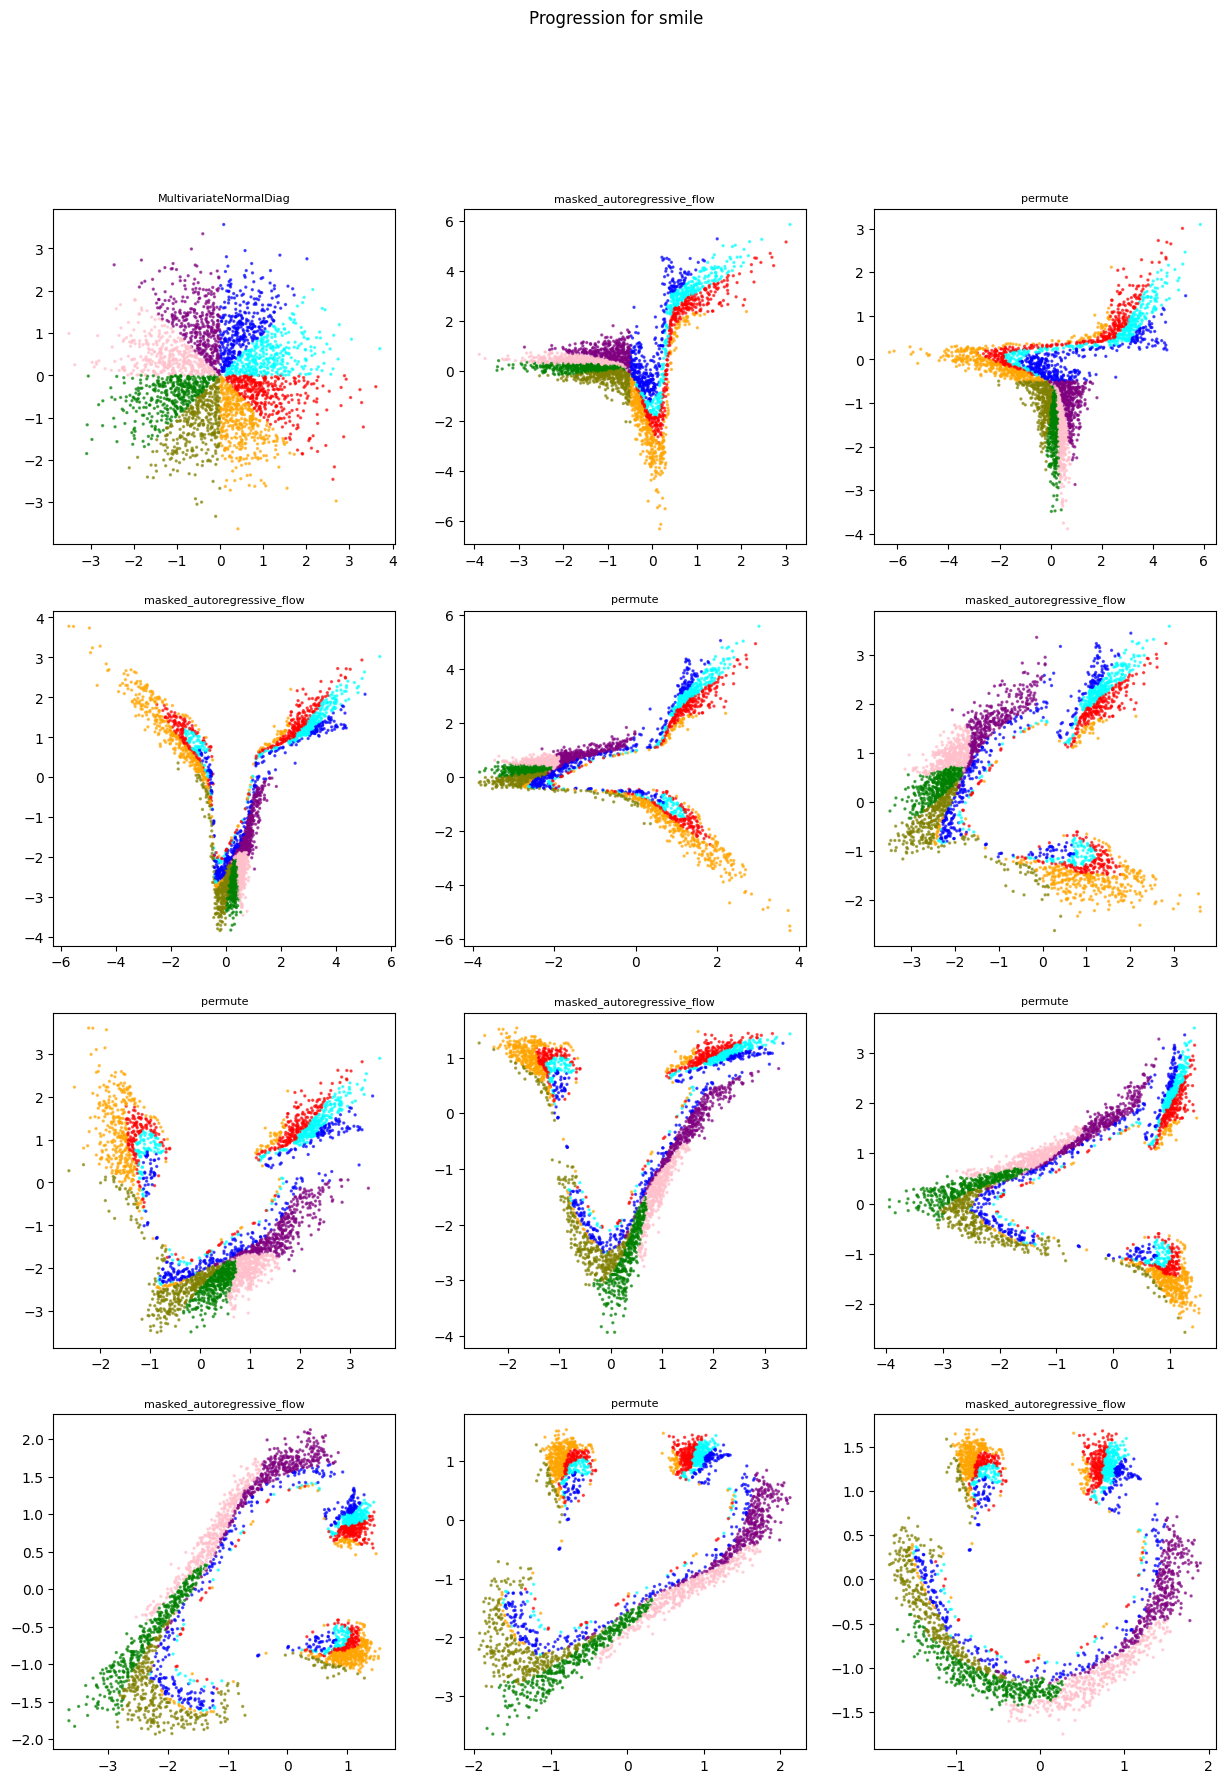
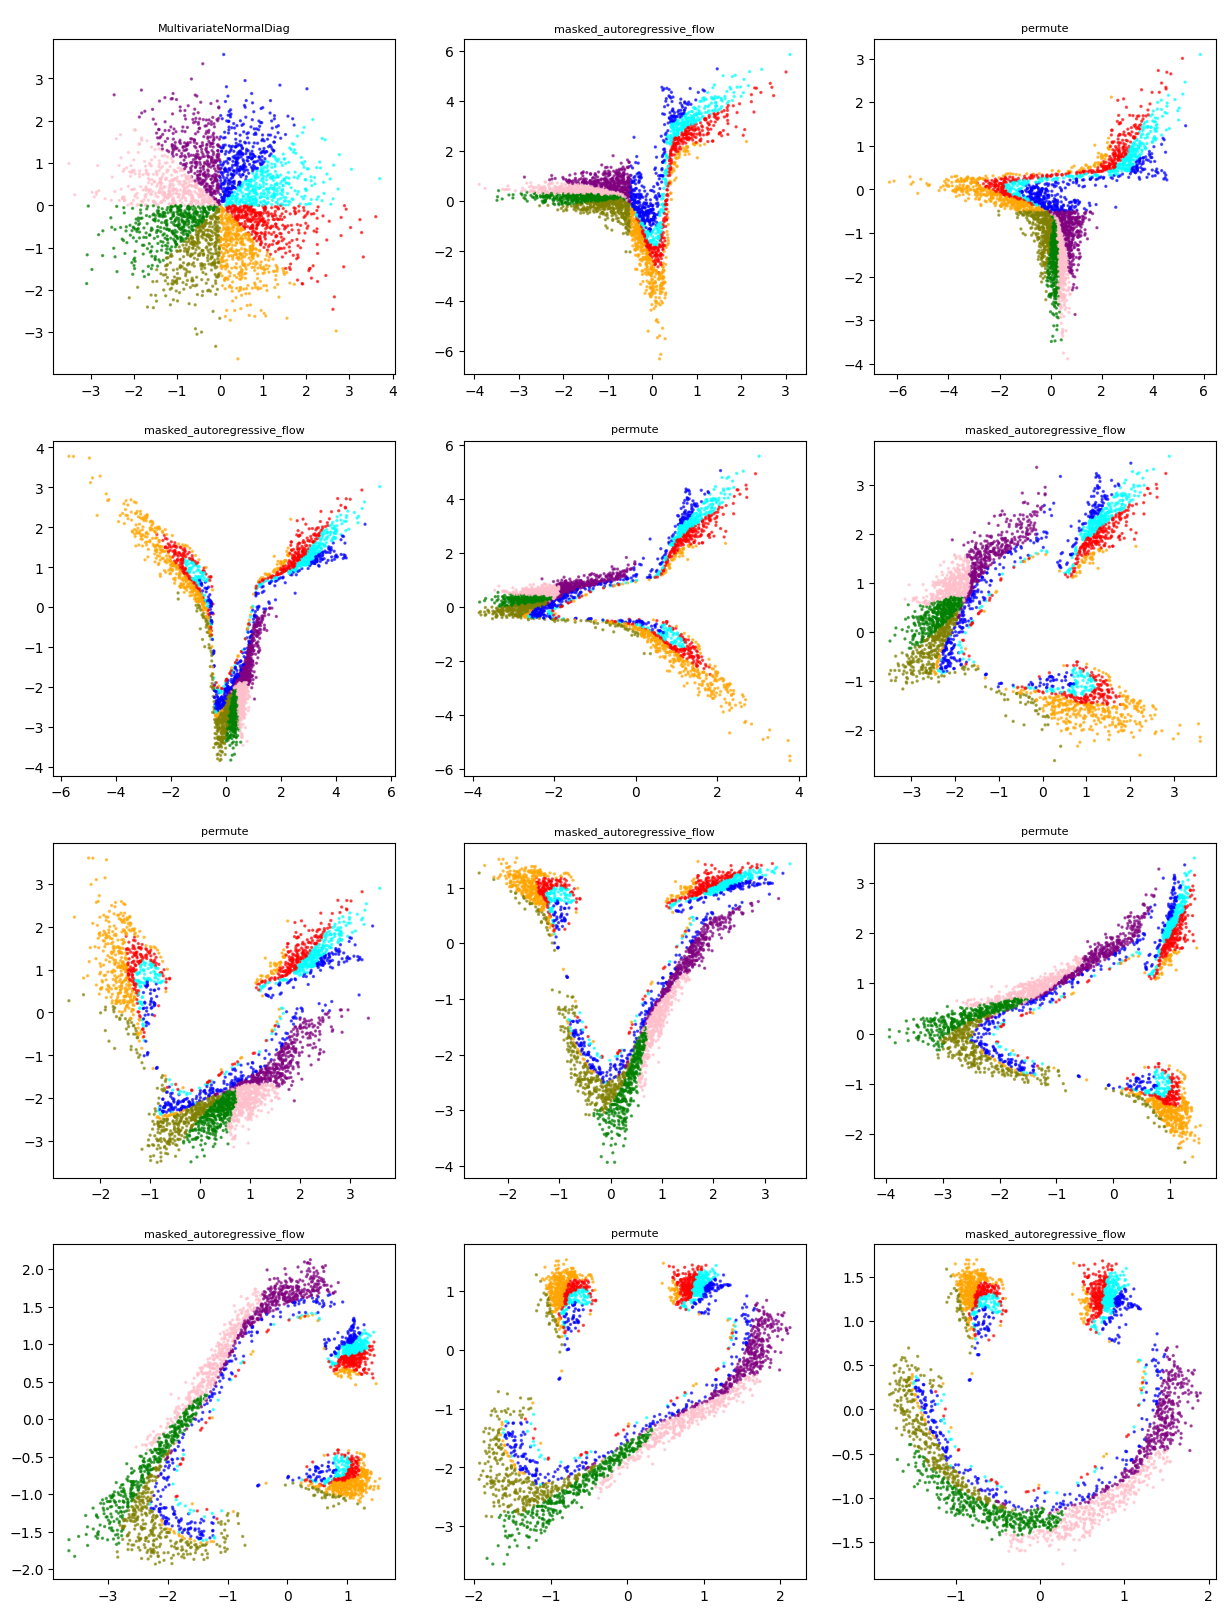
minor changes

diff --git a/_projects/02_density.md b/_projects/02_density.md
@@ -4,6 +4,8 @@ title: Density Estimation using Autoregressive Flow
 thumbnail: /density/thumbnail.png
 blurb: Ever wanted to estimate a complicated probability distribution from data alone? What if we could train a neural network to transform data from an easy to sample distribution like a standard gaussian and transform them to match our target distribution? Thats what MAF let's us do! 
 ---
+# Warning, this page is under construction. Read at your own risk!
+
 _Disclaimer: This project idea originated from an end of year project in my college probabilistic machine learning class.All of the code and graphics discussed or shown in this post, however, were created by myself._  
 
 Let's consider a hypothetical situation. We have data drawn from a complicated distribution. We would like to develop a model to represent this distribution so we can calculate density estimates from a set sample of points. We have heaps of good techniques for modeling and sampling from simple probability distributions (say a standard gaussian). What if we could train a machine learning model to transform data from a known, easy distribution into a point in our target distribution? This is exactly Masked Autoregressive Flow allows us to do!
